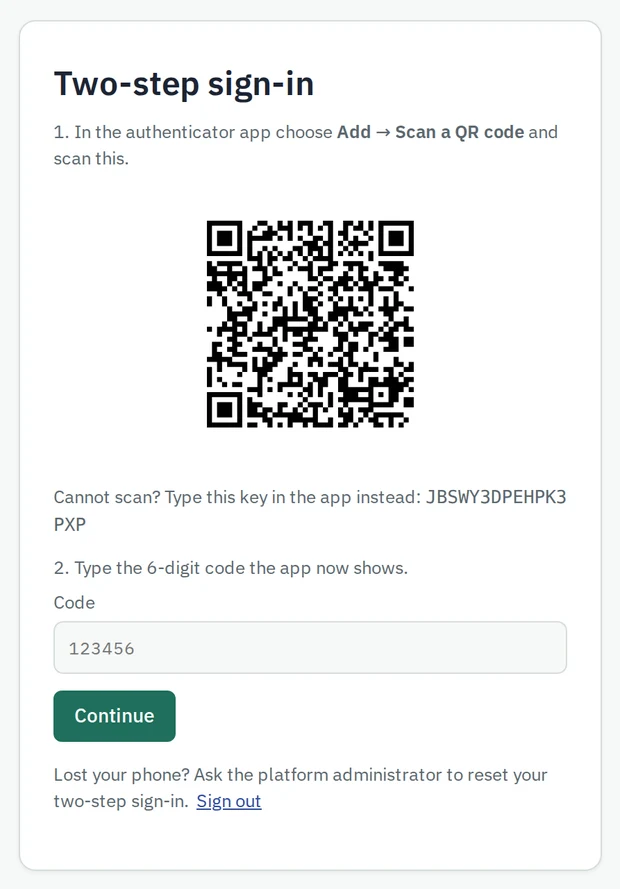
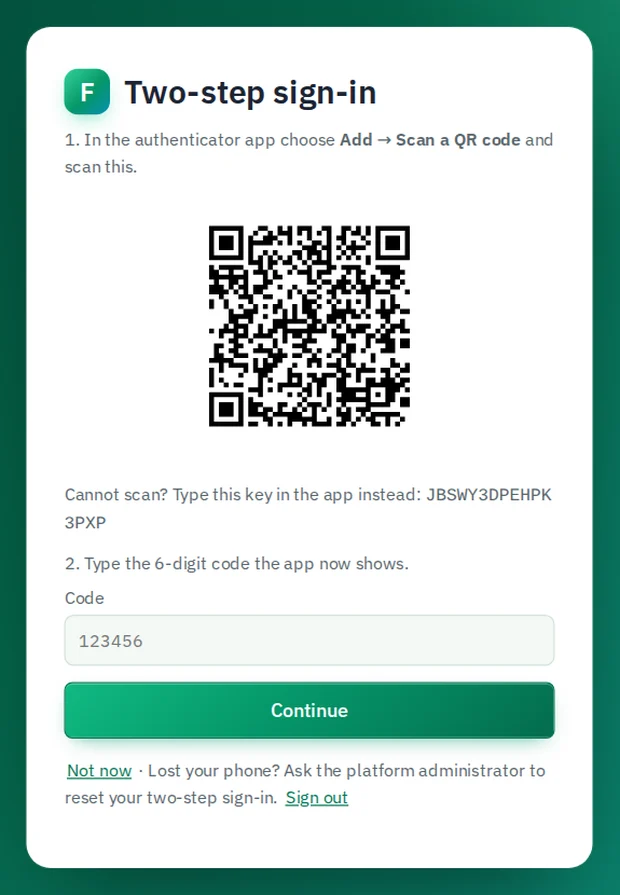
App: vibrant FinCom look to match the website
- Emerald sidebar with glow, coloured icons and a gradient active item; F mark
- Gradient primary buttons, tab underlines, filter pills and tags
- Number tiles each carry their own colour (emerald, sky, violet, amber)
- Bright brand backdrop on the sign-in screens; light and dark both done
- Website screenshots retaken from the new look

Claude-Session: https://claude.ai/code/session_01FRsxjsRL3Wrm74kAfAgxyr

diff --git a/index.html b/index.html
@@ -930,6 +930,84 @@ p,.note,.banner{text-wrap:pretty}
 @media (prefers-reduced-motion:reduce){.bk-empty{transition:none}}
 /* on the screens with review / post tabs the client name is already in the side menu, so the title row stays clean */
 .headrow .tbar-title .note{display:none}
+/* ================= Vibrant layer (FinCom brand): emerald leads, with sky, violet, amber, rose and teal ================= */
+:root{--v-em1:#34d399;--v-em2:#059669;--v-sky1:#38bdf8;--v-sky2:#2563eb;--v-vi1:#a78bfa;--v-vi2:#7c3aed;--v-am1:#fbbf24;--v-am2:#ea580c;--v-ro1:#fb7185;--v-ro2:#db2777;--v-te1:#2dd4bf;--v-te2:#0891b2;
+  --ledger:#047857;--ledger-soft:#dcfce9;--paper:#F3F8F5;--rule:#D3E3DA;--rule-soft:#E6F0EA;--stamp:#4338CA;--stamp-soft:#EAE8FD;--focus:#0891b2}
+:root[data-theme="dark"]{--ledger:#34d399;--ledger-soft:#0c3326;--paper:#0b1411;--sheet:#111d18;--rule:#22362d;--rule-soft:#1a2b23;--stamp:#a5b4fc;--stamp-soft:#1f2350;--focus:#38bdf8}
+@media (prefers-color-scheme: dark){:root:not([data-theme="light"]){--ledger:#34d399;--ledger-soft:#0c3326;--paper:#0b1411;--sheet:#111d18;--rule:#22362d;--rule-soft:#1a2b23;--stamp:#a5b4fc;--stamp-soft:#1f2350;--focus:#38bdf8}}
+body{background:radial-gradient(900px 420px at 100% -80px,color-mix(in srgb,var(--v-em1) 12%,transparent),transparent 70%),radial-gradient(700px 380px at 20% 110%,color-mix(in srgb,var(--v-sky1) 8%,transparent),transparent 70%),var(--paper);background-attachment:fixed}
+/* sidebar: deep emerald with living light */
+.side{background:radial-gradient(260px 220px at 100% 0%,rgb(52 211 153 / .28),transparent 70%),radial-gradient(260px 260px at 0% 100%,rgb(56 189 248 / .22),transparent 70%),linear-gradient(180deg,#053a2d 0%,#06372e 45%,#0a2f3d 100%);color:#EAF7F1}
+.side-brand{flex-direction:row;flex-wrap:wrap;align-items:center;gap:10px;font-family:"IBM Plex Serif",Georgia,serif}
+.side-brand::before{content:"F";display:grid;place-items:center;width:30px;height:30px;border-radius:9px;font:700 17px/1 "IBM Plex Sans",sans-serif;color:#fff;background:linear-gradient(135deg,#34d399,#059669 55%,#0891b2);box-shadow:0 6px 16px -6px rgb(52 211 153 / .8),inset 0 1px 0 rgb(255 255 255 / .35)}
+.side-brand span{flex-basis:100%;color:#fde68a;font-weight:600}
+.side-label{color:#8fd9bd}
+.side-co{background:rgb(255 255 255 / .07);border-color:rgb(110 231 183 / .28)}
+.side-co:hover{border-color:#6ee7b7;background:rgb(255 255 255 / .1)}
+.side-co small{color:#a7d8c4}
+.side-sep{background:rgb(110 231 183 / .2)}
+.side-link{transition:background-color .15s,box-shadow .2s}
+.side-link:hover{background:rgb(255 255 255 / .08)}
+.side-link svg{color:var(--si,#6ee7b7)}
+.side-link[data-goclient="dash"]{--si:#6ee7b7}.side-link[data-goclient="bills"]{--si:#fcd34d}.side-link[data-goclient="bank"]{--si:#7dd3fc}
+.side-link[data-goclient="sales"]{--si:#f9a8d4}.side-link[data-goclient="inbox"]{--si:#c4b5fd}.side-link[data-goclient="txn"]{--si:#5eead4}
+.side-link[data-goclient="books"]{--si:#bef264}.side-link[data-act="setup"]{--si:#fdba74}.side-link[data-nav="clients"]{--si:#93c5fd}.side-link[data-nav="help"]{--si:#fda4af}
+.side-link[aria-current="page"]{background:linear-gradient(135deg,#10b981,#059669 55%,#0e7490);color:#fff;box-shadow:0 8px 20px -10px rgb(52 211 153 / .9),inset 0 1px 0 rgb(255 255 255 / .25)}
+.side-link[aria-current="page"] svg{color:#fff}
+.side-count{background:linear-gradient(135deg,#fde68a,#fbbf24);color:#5a3a00}
+.side-ver{color:#7fb8a3}
+/* page header: a thin brand gradient line */
+header.top{background:linear-gradient(90deg,#10b981,#38bdf8,#a78bfa,#fbbf24) bottom/100% 3px no-repeat,var(--sheet)}
+/* buttons */
+.btn.primary{background:linear-gradient(135deg,#10b981 0%,#059669 45%,#046c4e 100%);border-color:#047857;color:#fff;box-shadow:0 6px 16px -8px rgb(5 150 105 / .8),inset 0 1px 0 rgb(255 255 255 / .25);transition:box-shadow .2s,filter .2s,transform .1s}
+.btn.primary:hover{filter:brightness(1.07);box-shadow:0 10px 22px -8px rgb(16 185 129 / .9),inset 0 1px 0 rgb(255 255 255 / .3)}
+:root[data-theme="dark"] .btn.primary{color:#fff}
+@media (prefers-color-scheme: dark){:root:not([data-theme="light"]) .btn.primary{color:#fff}}
+.btn.danger{border-color:color-mix(in srgb,var(--stop) 35%,var(--rule))}
+.btn:not(.primary):not([disabled]):hover{border-color:var(--v-em1);box-shadow:0 4px 12px -6px rgb(16 185 129 / .5)}
+/* tabs and filters */
+nav.tabs button[aria-selected="true"],.sbar button[aria-selected="true"]{border-bottom-color:transparent;background:linear-gradient(90deg,#10b981,#0891b2) bottom/100% 3px no-repeat}
+.sbar button[aria-selected="true"]{background-size:calc(100% - 16px) 3px;background-position:left bottom}
+.sbar button[aria-selected="true"] .sbar-n{background:linear-gradient(135deg,#34d399,#059669);color:#fff}
+nav.tabs .count,.sbar-n{background:linear-gradient(135deg,#fef3c7,#fde68a);color:#854d0e}
+.filters button[aria-pressed="true"]{background:linear-gradient(135deg,#10b981,#0e7490);border-color:transparent;color:#fff;box-shadow:0 4px 12px -6px rgb(14 116 144 / .8)}
+/* tags */
+.tag.ok{background:linear-gradient(135deg,#d1fae5,#a7f3d0);color:#065f46}
+.tag.warn{background:linear-gradient(135deg,#fef3c7,#fed7aa);color:#9a3412}
+.tag.stamp{background:linear-gradient(135deg,#e0e7ff,#ede9fe);color:#4338ca}
+.tag.bad{background:linear-gradient(135deg,#ffe4e6,#fecdd3);color:#be123c}
+:root[data-theme="dark"] .tag.ok{background:#064e3b;color:#a7f3d0}:root[data-theme="dark"] .tag.warn{background:#7c2d12;color:#fed7aa}:root[data-theme="dark"] .tag.stamp{background:#312e81;color:#c7d2fe}:root[data-theme="dark"] .tag.bad{background:#881337;color:#fecdd3}
+@media (prefers-color-scheme: dark){:root:not([data-theme="light"]) .tag.ok{background:#064e3b;color:#a7f3d0}:root:not([data-theme="light"]) .tag.warn{background:#7c2d12;color:#fed7aa}:root:not([data-theme="light"]) .tag.stamp{background:#312e81;color:#c7d2fe}:root:not([data-theme="light"]) .tag.bad{background:#881337;color:#fecdd3}}
+/* number tiles: each carries its own colour */
+.dtile,.metric,.tile{position:relative;overflow:hidden;--c1:var(--v-em1);--c2:var(--v-em2);background:linear-gradient(160deg,color-mix(in srgb,var(--c1) 13%,var(--sheet)),var(--sheet) 62%);border-color:color-mix(in srgb,var(--c1) 30%,var(--rule));transition:transform .2s,box-shadow .2s,border-color .2s}
+.dtile::before,.metric::before,.tile::before{content:"";position:absolute;left:0;top:0;right:0;height:3px;background:linear-gradient(90deg,var(--c1),var(--c2))}
+.dash-tiles>:nth-child(4n+2),.metrics>:nth-child(4n+2),.tiles>:nth-child(4n+2){--c1:var(--v-sky1);--c2:var(--v-sky2)}
+.dash-tiles>:nth-child(4n+3),.metrics>:nth-child(4n+3),.tiles>:nth-child(4n+3){--c1:var(--v-vi1);--c2:var(--v-vi2)}
+.dash-tiles>:nth-child(4n+4),.metrics>:nth-child(4n+4),.tiles>:nth-child(4n+4){--c1:var(--v-am1);--c2:var(--v-am2)}
+.dash-tiles>:nth-child(n+5):nth-child(4n+1){--c1:var(--v-te1);--c2:var(--v-te2)}
+.dash-tiles>:nth-child(n+5):nth-child(4n+2){--c1:var(--v-ro1);--c2:var(--v-ro2)}
+.dtile.warn,.metric.warn{--c1:var(--v-am1);--c2:var(--v-am2);background:linear-gradient(160deg,color-mix(in srgb,#fbbf24 26%,var(--sheet)),color-mix(in srgb,#fbbf24 6%,var(--sheet)))}
+.dtile b,.metric b{color:color-mix(in srgb,var(--c2) 70%,var(--ink))}
+.dtile[data-nav]:hover,button.dtile:hover,.metric[data-nav]:hover,.tile:hover{transform:translateY(-2px);border-color:var(--c1);box-shadow:0 12px 26px -14px var(--c2)}
+/* cards */
+.dash-card{position:relative;overflow:hidden;border-color:color-mix(in srgb,var(--v-em1) 22%,var(--rule))}
+.dash-card::before{content:"";position:absolute;left:0;top:0;bottom:0;width:3px;background:linear-gradient(180deg,#34d399,#38bdf8)}
+.dash-cols>.dash-card:nth-child(4n+2)::before{background:linear-gradient(180deg,#38bdf8,#7c3aed)}
+.dash-cols>.dash-card:nth-child(4n+3)::before{background:linear-gradient(180deg,#f472b6,#a78bfa)}
+.dash-cols>.dash-card:nth-child(4n+4)::before{background:linear-gradient(180deg,#fbbf24,#ea580c)}
+.verdict.yes{background:linear-gradient(90deg,#059669,#0891b2);-webkit-background-clip:text;background-clip:text;color:transparent}
+:root[data-theme="dark"] .verdict.yes{background-image:linear-gradient(90deg,#34d399,#38bdf8)}
+@media (prefers-color-scheme: dark){:root:not([data-theme="light"]) .verdict.yes{background-image:linear-gradient(90deg,#34d399,#38bdf8)}}
+.actionbar{box-shadow:0 -1px 0 transparent;border-top:0;background-image:linear-gradient(90deg,#10b981,#38bdf8,#a78bfa) ;background-size:100% 3px;background-repeat:no-repeat;background-position:top}
+/* sign-in: bright brand backdrop */
+.signin{min-height:100vh;background:radial-gradient(700px 480px at 85% 5%,rgb(52 211 153 / .55),transparent 62%),radial-gradient(620px 440px at 5% 100%,rgb(56 189 248 / .45),transparent 66%),radial-gradient(420px 320px at 100% 100%,rgb(167 139 250 / .4),transparent 70%),linear-gradient(125deg,#03342a 0%,#05664b 45%,#0a7f6a 72%,#0e6f86 100%)}
+.signin-box{border:0;border-radius:18px;box-shadow:0 30px 70px -24px rgb(0 0 0 / .55),0 0 0 1px rgb(255 255 255 / .08);padding:30px 28px}
+.signin-box h1{display:flex;align-items:center;gap:10px}
+.signin-box h1::before{content:"F";display:grid;place-items:center;width:34px;height:34px;border-radius:10px;font:700 19px/1 "IBM Plex Sans",sans-serif;color:#fff;background:linear-gradient(135deg,#34d399,#059669 55%,#0891b2);box-shadow:0 6px 16px -6px rgb(52 211 153 / .8)}
+.signin-box input:focus{outline:0;border-color:#10b981;box-shadow:0 0 0 3px rgb(16 185 129 / .22)}
+.signin-box .btn.primary{width:100%;justify-content:center;height:42px}
+.signin-box a,.signin-box .linkbtn{color:var(--ledger)}
+@media (prefers-reduced-motion: reduce){.dtile,.metric,.tile,.btn.primary{transition:none}.dtile:hover,.tile:hover{transform:none}}
 </style>
 <style>.is-test .side-brand::after{content:"TEST";display:block;margin-top:4px;font-size:11px;letter-spacing:.14em;color:#E9A06A}.is-test header.top{box-shadow:inset 0 3px 0 #E2761B}body.is-test::after{content:"TESTING SITE · not for real client work · post only to a ZZ TEST company in Tally";position:fixed;left:0;right:0;bottom:0;z-index:70;background:#E2761B;color:#fff;font-size:12.5px;text-align:center;padding:3px 8px;letter-spacing:.04em;pointer-events:none}.is-test .actionbar{bottom:22px}.is-test #app{padding-bottom:34px}</style><meta http-equiv="Content-Security-Policy" content="default-src 'self'; script-src 'self' 'sha256-JUZRiA/pD/Q1MSIv1WkOX00eklOKXLcOHszD3zr3UBc=' 'sha256-eBfM5RlNanoMUXe5WqBMdgcvkVHZSzptJPrDrLkhzwI=' 'wasm-unsafe-eval'; style-src 'self' 'unsafe-inline' https://fonts.googleapis.com; font-src 'self' data: https://fonts.gstatic.com; img-src 'self' data: blob:; media-src 'self' data: blob:; connect-src 'self' data: blob: https://*.supabase.co wss://*.supabase.co http://127.0.0.1:* http://localhost:*; worker-src 'self' blob:; frame-src 'self' blob:; object-src 'none'; base-uri 'self'; form-action 'self'">
 </head>

diff --git a/src/css/app.css b/src/css/app.css
@@ -917,3 +917,81 @@ p,.note,.banner{text-wrap:pretty}
 @media (prefers-reduced-motion:reduce){.bk-empty{transition:none}}
 /* on the screens with review / post tabs the client name is already in the side menu, so the title row stays clean */
 .headrow .tbar-title .note{display:none}
+/* ================= Vibrant layer (FinCom brand): emerald leads, with sky, violet, amber, rose and teal ================= */
+:root{--v-em1:#34d399;--v-em2:#059669;--v-sky1:#38bdf8;--v-sky2:#2563eb;--v-vi1:#a78bfa;--v-vi2:#7c3aed;--v-am1:#fbbf24;--v-am2:#ea580c;--v-ro1:#fb7185;--v-ro2:#db2777;--v-te1:#2dd4bf;--v-te2:#0891b2;
+  --ledger:#047857;--ledger-soft:#dcfce9;--paper:#F3F8F5;--rule:#D3E3DA;--rule-soft:#E6F0EA;--stamp:#4338CA;--stamp-soft:#EAE8FD;--focus:#0891b2}
+:root[data-theme="dark"]{--ledger:#34d399;--ledger-soft:#0c3326;--paper:#0b1411;--sheet:#111d18;--rule:#22362d;--rule-soft:#1a2b23;--stamp:#a5b4fc;--stamp-soft:#1f2350;--focus:#38bdf8}
+@media (prefers-color-scheme: dark){:root:not([data-theme="light"]){--ledger:#34d399;--ledger-soft:#0c3326;--paper:#0b1411;--sheet:#111d18;--rule:#22362d;--rule-soft:#1a2b23;--stamp:#a5b4fc;--stamp-soft:#1f2350;--focus:#38bdf8}}
+body{background:radial-gradient(900px 420px at 100% -80px,color-mix(in srgb,var(--v-em1) 12%,transparent),transparent 70%),radial-gradient(700px 380px at 20% 110%,color-mix(in srgb,var(--v-sky1) 8%,transparent),transparent 70%),var(--paper);background-attachment:fixed}
+/* sidebar: deep emerald with living light */
+.side{background:radial-gradient(260px 220px at 100% 0%,rgb(52 211 153 / .28),transparent 70%),radial-gradient(260px 260px at 0% 100%,rgb(56 189 248 / .22),transparent 70%),linear-gradient(180deg,#053a2d 0%,#06372e 45%,#0a2f3d 100%);color:#EAF7F1}
+.side-brand{flex-direction:row;flex-wrap:wrap;align-items:center;gap:10px;font-family:"IBM Plex Serif",Georgia,serif}
+.side-brand::before{content:"F";display:grid;place-items:center;width:30px;height:30px;border-radius:9px;font:700 17px/1 "IBM Plex Sans",sans-serif;color:#fff;background:linear-gradient(135deg,#34d399,#059669 55%,#0891b2);box-shadow:0 6px 16px -6px rgb(52 211 153 / .8),inset 0 1px 0 rgb(255 255 255 / .35)}
+.side-brand span{flex-basis:100%;color:#fde68a;font-weight:600}
+.side-label{color:#8fd9bd}
+.side-co{background:rgb(255 255 255 / .07);border-color:rgb(110 231 183 / .28)}
+.side-co:hover{border-color:#6ee7b7;background:rgb(255 255 255 / .1)}
+.side-co small{color:#a7d8c4}
+.side-sep{background:rgb(110 231 183 / .2)}
+.side-link{transition:background-color .15s,box-shadow .2s}
+.side-link:hover{background:rgb(255 255 255 / .08)}
+.side-link svg{color:var(--si,#6ee7b7)}
+.side-link[data-goclient="dash"]{--si:#6ee7b7}.side-link[data-goclient="bills"]{--si:#fcd34d}.side-link[data-goclient="bank"]{--si:#7dd3fc}
+.side-link[data-goclient="sales"]{--si:#f9a8d4}.side-link[data-goclient="inbox"]{--si:#c4b5fd}.side-link[data-goclient="txn"]{--si:#5eead4}
+.side-link[data-goclient="books"]{--si:#bef264}.side-link[data-act="setup"]{--si:#fdba74}.side-link[data-nav="clients"]{--si:#93c5fd}.side-link[data-nav="help"]{--si:#fda4af}
+.side-link[aria-current="page"]{background:linear-gradient(135deg,#10b981,#059669 55%,#0e7490);color:#fff;box-shadow:0 8px 20px -10px rgb(52 211 153 / .9),inset 0 1px 0 rgb(255 255 255 / .25)}
+.side-link[aria-current="page"] svg{color:#fff}
+.side-count{background:linear-gradient(135deg,#fde68a,#fbbf24);color:#5a3a00}
+.side-ver{color:#7fb8a3}
+/* page header: a thin brand gradient line */
+header.top{background:linear-gradient(90deg,#10b981,#38bdf8,#a78bfa,#fbbf24) bottom/100% 3px no-repeat,var(--sheet)}
+/* buttons */
+.btn.primary{background:linear-gradient(135deg,#10b981 0%,#059669 45%,#046c4e 100%);border-color:#047857;color:#fff;box-shadow:0 6px 16px -8px rgb(5 150 105 / .8),inset 0 1px 0 rgb(255 255 255 / .25);transition:box-shadow .2s,filter .2s,transform .1s}
+.btn.primary:hover{filter:brightness(1.07);box-shadow:0 10px 22px -8px rgb(16 185 129 / .9),inset 0 1px 0 rgb(255 255 255 / .3)}
+:root[data-theme="dark"] .btn.primary{color:#fff}
+@media (prefers-color-scheme: dark){:root:not([data-theme="light"]) .btn.primary{color:#fff}}
+.btn.danger{border-color:color-mix(in srgb,var(--stop) 35%,var(--rule))}
+.btn:not(.primary):not([disabled]):hover{border-color:var(--v-em1);box-shadow:0 4px 12px -6px rgb(16 185 129 / .5)}
+/* tabs and filters */
+nav.tabs button[aria-selected="true"],.sbar button[aria-selected="true"]{border-bottom-color:transparent;background:linear-gradient(90deg,#10b981,#0891b2) bottom/100% 3px no-repeat}
+.sbar button[aria-selected="true"]{background-size:calc(100% - 16px) 3px;background-position:left bottom}
+.sbar button[aria-selected="true"] .sbar-n{background:linear-gradient(135deg,#34d399,#059669);color:#fff}
+nav.tabs .count,.sbar-n{background:linear-gradient(135deg,#fef3c7,#fde68a);color:#854d0e}
+.filters button[aria-pressed="true"]{background:linear-gradient(135deg,#10b981,#0e7490);border-color:transparent;color:#fff;box-shadow:0 4px 12px -6px rgb(14 116 144 / .8)}
+/* tags */
+.tag.ok{background:linear-gradient(135deg,#d1fae5,#a7f3d0);color:#065f46}
+.tag.warn{background:linear-gradient(135deg,#fef3c7,#fed7aa);color:#9a3412}
+.tag.stamp{background:linear-gradient(135deg,#e0e7ff,#ede9fe);color:#4338ca}
+.tag.bad{background:linear-gradient(135deg,#ffe4e6,#fecdd3);color:#be123c}
+:root[data-theme="dark"] .tag.ok{background:#064e3b;color:#a7f3d0}:root[data-theme="dark"] .tag.warn{background:#7c2d12;color:#fed7aa}:root[data-theme="dark"] .tag.stamp{background:#312e81;color:#c7d2fe}:root[data-theme="dark"] .tag.bad{background:#881337;color:#fecdd3}
+@media (prefers-color-scheme: dark){:root:not([data-theme="light"]) .tag.ok{background:#064e3b;color:#a7f3d0}:root:not([data-theme="light"]) .tag.warn{background:#7c2d12;color:#fed7aa}:root:not([data-theme="light"]) .tag.stamp{background:#312e81;color:#c7d2fe}:root:not([data-theme="light"]) .tag.bad{background:#881337;color:#fecdd3}}
+/* number tiles: each carries its own colour */
+.dtile,.metric,.tile{position:relative;overflow:hidden;--c1:var(--v-em1);--c2:var(--v-em2);background:linear-gradient(160deg,color-mix(in srgb,var(--c1) 13%,var(--sheet)),var(--sheet) 62%);border-color:color-mix(in srgb,var(--c1) 30%,var(--rule));transition:transform .2s,box-shadow .2s,border-color .2s}
+.dtile::before,.metric::before,.tile::before{content:"";position:absolute;left:0;top:0;right:0;height:3px;background:linear-gradient(90deg,var(--c1),var(--c2))}
+.dash-tiles>:nth-child(4n+2),.metrics>:nth-child(4n+2),.tiles>:nth-child(4n+2){--c1:var(--v-sky1);--c2:var(--v-sky2)}
+.dash-tiles>:nth-child(4n+3),.metrics>:nth-child(4n+3),.tiles>:nth-child(4n+3){--c1:var(--v-vi1);--c2:var(--v-vi2)}
+.dash-tiles>:nth-child(4n+4),.metrics>:nth-child(4n+4),.tiles>:nth-child(4n+4){--c1:var(--v-am1);--c2:var(--v-am2)}
+.dash-tiles>:nth-child(n+5):nth-child(4n+1){--c1:var(--v-te1);--c2:var(--v-te2)}
+.dash-tiles>:nth-child(n+5):nth-child(4n+2){--c1:var(--v-ro1);--c2:var(--v-ro2)}
+.dtile.warn,.metric.warn{--c1:var(--v-am1);--c2:var(--v-am2);background:linear-gradient(160deg,color-mix(in srgb,#fbbf24 26%,var(--sheet)),color-mix(in srgb,#fbbf24 6%,var(--sheet)))}
+.dtile b,.metric b{color:color-mix(in srgb,var(--c2) 70%,var(--ink))}
+.dtile[data-nav]:hover,button.dtile:hover,.metric[data-nav]:hover,.tile:hover{transform:translateY(-2px);border-color:var(--c1);box-shadow:0 12px 26px -14px var(--c2)}
+/* cards */
+.dash-card{position:relative;overflow:hidden;border-color:color-mix(in srgb,var(--v-em1) 22%,var(--rule))}
+.dash-card::before{content:"";position:absolute;left:0;top:0;bottom:0;width:3px;background:linear-gradient(180deg,#34d399,#38bdf8)}
+.dash-cols>.dash-card:nth-child(4n+2)::before{background:linear-gradient(180deg,#38bdf8,#7c3aed)}
+.dash-cols>.dash-card:nth-child(4n+3)::before{background:linear-gradient(180deg,#f472b6,#a78bfa)}
+.dash-cols>.dash-card:nth-child(4n+4)::before{background:linear-gradient(180deg,#fbbf24,#ea580c)}
+.verdict.yes{background:linear-gradient(90deg,#059669,#0891b2);-webkit-background-clip:text;background-clip:text;color:transparent}
+:root[data-theme="dark"] .verdict.yes{background-image:linear-gradient(90deg,#34d399,#38bdf8)}
+@media (prefers-color-scheme: dark){:root:not([data-theme="light"]) .verdict.yes{background-image:linear-gradient(90deg,#34d399,#38bdf8)}}
+.actionbar{box-shadow:0 -1px 0 transparent;border-top:0;background-image:linear-gradient(90deg,#10b981,#38bdf8,#a78bfa) ;background-size:100% 3px;background-repeat:no-repeat;background-position:top}
+/* sign-in: bright brand backdrop */
+.signin{min-height:100vh;background:radial-gradient(700px 480px at 85% 5%,rgb(52 211 153 / .55),transparent 62%),radial-gradient(620px 440px at 5% 100%,rgb(56 189 248 / .45),transparent 66%),radial-gradient(420px 320px at 100% 100%,rgb(167 139 250 / .4),transparent 70%),linear-gradient(125deg,#03342a 0%,#05664b 45%,#0a7f6a 72%,#0e6f86 100%)}
+.signin-box{border:0;border-radius:18px;box-shadow:0 30px 70px -24px rgb(0 0 0 / .55),0 0 0 1px rgb(255 255 255 / .08);padding:30px 28px}
+.signin-box h1{display:flex;align-items:center;gap:10px}
+.signin-box h1::before{content:"F";display:grid;place-items:center;width:34px;height:34px;border-radius:10px;font:700 19px/1 "IBM Plex Sans",sans-serif;color:#fff;background:linear-gradient(135deg,#34d399,#059669 55%,#0891b2);box-shadow:0 6px 16px -6px rgb(52 211 153 / .8)}
+.signin-box input:focus{outline:0;border-color:#10b981;box-shadow:0 0 0 3px rgb(16 185 129 / .22)}
+.signin-box .btn.primary{width:100%;justify-content:center;height:42px}
+.signin-box a,.signin-box .linkbtn{color:var(--ledger)}
+@media (prefers-reduced-motion: reduce){.dtile,.metric,.tile,.btn.primary{transition:none}.dtile:hover,.tile:hover{transform:none}}

diff --git a/welcome/index.html b/welcome/index.html
@@ -487,7 +487,7 @@ table.units{width:100%;border-collapse:collapse;font-size:15.5px}
       <h2 id="i-h" class="rise">See how the business is doing, and what needs fixing, before the auditor does.</h2>
       <div class="ins-grid">
         <article class="ins rise">
-          <div class="ins-shot"><img src="img/mis.webp" width="1500" height="476" alt="The MIS summary in FinCom: sales, profit before tax, cash received and paid, money owed to and by the business, MSME dues and GST payable" loading="lazy"></div>
+          <div class="ins-shot"><img src="img/mis.webp" width="1500" height="303" alt="The MIS summary in FinCom: sales, profit before tax, cash received and paid, money owed to and by the business, MSME dues and GST payable" loading="lazy"></div>
           <div class="ins-body">
             <h3><svg class="ic" aria-hidden="true" focusable="false" xmlns="http://www.w3.org/2000/svg" viewBox="0 0 256 256" fill="currentColor"><path d="M232,208a8,8,0,0,1-8,8H32a8,8,0,0,1-8-8V48a8,8,0,0,1,16,0V156.69l50.34-50.35a8,8,0,0,1,11.32,0L128,132.69,180.69,80H160a8,8,0,0,1,0-16h40a8,8,0,0,1,8,8v40a8,8,0,0,1-16,0V91.31l-58.34,58.35a8,8,0,0,1-11.32,0L96,123.31l-56,56V200H224A8,8,0,0,1,232,208Z"/></svg>Your month on one page</h3>
             <p>Read straight from Tally. Sales, profit, cash in and out, who owes you, who you owe, and what tax is due next.</p>
@@ -500,7 +500,7 @@ table.units{width:100%;border-collapse:collapse;font-size:15.5px}
           </div>
         </article>
         <article class="ins rise">
-          <div class="ins-shot"><img src="img/audit.webp" width="1500" height="672" alt="An audit finding in FinCom: a cash payment above 10,000 rupees under section 40A(3), with its effect, what to do and the voucher behind it" loading="lazy"></div>
+          <div class="ins-shot"><img src="img/audit.webp" width="1500" height="689" alt="An audit finding in FinCom: a cash payment above 10,000 rupees under section 40A(3), with its effect, what to do and the voucher behind it" loading="lazy"></div>
           <div class="ins-body">
             <h3><svg class="ic" aria-hidden="true" focusable="false" xmlns="http://www.w3.org/2000/svg" viewBox="0 0 256 256" fill="currentColor"><path d="M229.66,218.34l-50.07-50.06a88.11,88.11,0,1,0-11.31,11.31l50.06,50.07a8,8,0,0,0,11.32-11.32ZM40,112a72,72,0,1,1,72,72A72.08,72.08,0,0,1,40,112Z"/></svg>An audit review of every voucher</h3>
             <p>Checks the whole year's books the way an auditor would, and tells you what each finding costs and how to put it right.</p>
@@ -553,11 +553,11 @@ table.units{width:100%;border-collapse:collapse;font-size:15.5px}
     <div class="wrap">
       <div class="row rise">
         <div class="copy"><h3>A month of bills, reviewed in one table.</h3><p>Every bill shows its TDS section, the tax, and how far the vendor has gone against this year's limit. Tick the ones you agree with and approve them together.</p></div>
-        <div class="frame"><img src="img/bill-table.webp" width="1400" height="609" alt="A table of uploaded bills with payment type, TDS and each vendor's running total against the yearly limit" loading="lazy"></div>
+        <div class="frame"><img src="img/bill-table.webp" width="1400" height="622" alt="A table of uploaded bills with payment type, TDS and each vendor's running total against the yearly limit" loading="lazy"></div>
       </div>
       <div class="row flip rise">
         <div class="copy"><h3>Bank statements that add up before they reach Tally.</h3><p>Each statement is checked line by line against its running balance. Lines are matched to your ledgers by rules you set once, then posted in batches.</p></div>
-        <div class="frame"><img src="img/bank.webp" width="1500" height="709" alt="A bank statement in FinCom with opening and closing balances, and each line waiting for a Tally ledger" loading="lazy"></div>
+        <div class="frame"><img src="img/bank.webp" width="1500" height="1027" alt="A bank statement in FinCom with opening and closing balances, and each line waiting for a Tally ledger" loading="lazy"></div>
       </div>
     </div>
   </section>
@@ -586,7 +586,7 @@ table.units{width:100%;border-collapse:collapse;font-size:15.5px}
       <p class="eyebrow rise">Security</p>
       <h2 id="s-h" class="rise">Your clients' books stay yours.</h2>
       <div class="sec-grid">
-        <div class="frame narrow rise"><img src="img/two-step.webp" width="620" height="890" alt="The optional two-step sign-in set-up in FinCom, with a QR code to scan in an authenticator app" loading="lazy"></div>
+        <div class="frame narrow rise"><img src="img/two-step.webp" width="620" height="895" alt="The optional two-step sign-in set-up in FinCom, with a QR code to scan in an authenticator app" loading="lazy"></div>
         <div class="groups">
           <div class="group rise"><h3>Access</h3>
             <div class="pt"><svg class="ic" aria-hidden="true" focusable="false" xmlns="http://www.w3.org/2000/svg" viewBox="0 0 256 256" fill="currentColor"><path d="M208,40H48A16,16,0,0,0,32,56v56c0,52.72,25.52,84.67,46.93,102.19,23.06,18.86,46,25.26,47,25.53a8,8,0,0,0,4.2,0c1-.27,23.91-6.67,47-25.53C198.48,196.67,224,164.72,224,112V56A16,16,0,0,0,208,40Zm0,72c0,37.07-13.66,67.16-40.6,89.42A129.3,129.3,0,0,1,128,223.62a128.25,128.25,0,0,1-38.92-21.81C61.82,179.51,48,149.3,48,112l0-56,160,0ZM82.34,141.66a8,8,0,0,1,11.32-11.32L112,148.69l50.34-50.35a8,8,0,0,1,11.32,11.32l-56,56a8,8,0,0,1-11.32,0Z"/></svg><p>Each firm's data is walled off by the database itself. One firm can never read another's.</p></div>

diff --git a/build/landing/home.html b/build/landing/home.html
@@ -24,7 +24,7 @@
       <h2 id="i-h" class="rise">See how the business is doing, and what needs fixing, before the auditor does.</h2>
       <div class="ins-grid">
         <article class="ins rise">
-          <div class="ins-shot"><img src="img/mis.webp" width="1500" height="476" alt="The MIS summary in FinCom: sales, profit before tax, cash received and paid, money owed to and by the business, MSME dues and GST payable" loading="lazy"></div>
+          <div class="ins-shot"><img src="img/mis.webp" width="1500" height="303" alt="The MIS summary in FinCom: sales, profit before tax, cash received and paid, money owed to and by the business, MSME dues and GST payable" loading="lazy"></div>
           <div class="ins-body">
             <h3><svg class="ic" aria-hidden="true" focusable="false" xmlns="http://www.w3.org/2000/svg" viewBox="0 0 256 256" fill="currentColor"><path d="M232,208a8,8,0,0,1-8,8H32a8,8,0,0,1-8-8V48a8,8,0,0,1,16,0V156.69l50.34-50.35a8,8,0,0,1,11.32,0L128,132.69,180.69,80H160a8,8,0,0,1,0-16h40a8,8,0,0,1,8,8v40a8,8,0,0,1-16,0V91.31l-58.34,58.35a8,8,0,0,1-11.32,0L96,123.31l-56,56V200H224A8,8,0,0,1,232,208Z"/></svg>Your month on one page</h3>
             <p>Read straight from Tally. Sales, profit, cash in and out, who owes you, who you owe, and what tax is due next.</p>
@@ -37,7 +37,7 @@
           </div>
         </article>
         <article class="ins rise">
-          <div class="ins-shot"><img src="img/audit.webp" width="1500" height="672" alt="An audit finding in FinCom: a cash payment above 10,000 rupees under section 40A(3), with its effect, what to do and the voucher behind it" loading="lazy"></div>
+          <div class="ins-shot"><img src="img/audit.webp" width="1500" height="689" alt="An audit finding in FinCom: a cash payment above 10,000 rupees under section 40A(3), with its effect, what to do and the voucher behind it" loading="lazy"></div>
           <div class="ins-body">
             <h3><svg class="ic" aria-hidden="true" focusable="false" xmlns="http://www.w3.org/2000/svg" viewBox="0 0 256 256" fill="currentColor"><path d="M229.66,218.34l-50.07-50.06a88.11,88.11,0,1,0-11.31,11.31l50.06,50.07a8,8,0,0,0,11.32-11.32ZM40,112a72,72,0,1,1,72,72A72.08,72.08,0,0,1,40,112Z"/></svg>An audit review of every voucher</h3>
             <p>Checks the whole year's books the way an auditor would, and tells you what each finding costs and how to put it right.</p>
@@ -90,11 +90,11 @@
     <div class="wrap">
       <div class="row rise">
         <div class="copy"><h3>A month of bills, reviewed in one table.</h3><p>Every bill shows its TDS section, the tax, and how far the vendor has gone against this year's limit. Tick the ones you agree with and approve them together.</p></div>
-        <div class="frame"><img src="img/bill-table.webp" width="1400" height="609" alt="A table of uploaded bills with payment type, TDS and each vendor's running total against the yearly limit" loading="lazy"></div>
+        <div class="frame"><img src="img/bill-table.webp" width="1400" height="622" alt="A table of uploaded bills with payment type, TDS and each vendor's running total against the yearly limit" loading="lazy"></div>
       </div>
       <div class="row flip rise">
         <div class="copy"><h3>Bank statements that add up before they reach Tally.</h3><p>Each statement is checked line by line against its running balance. Lines are matched to your ledgers by rules you set once, then posted in batches.</p></div>
-        <div class="frame"><img src="img/bank.webp" width="1500" height="709" alt="A bank statement in FinCom with opening and closing balances, and each line waiting for a Tally ledger" loading="lazy"></div>
+        <div class="frame"><img src="img/bank.webp" width="1500" height="1027" alt="A bank statement in FinCom with opening and closing balances, and each line waiting for a Tally ledger" loading="lazy"></div>
       </div>
     </div>
   </section>
@@ -123,7 +123,7 @@
       <p class="eyebrow rise">Security</p>
       <h2 id="s-h" class="rise">Your clients' books stay yours.</h2>
       <div class="sec-grid">
-        <div class="frame narrow rise"><img src="img/two-step.webp" width="620" height="890" alt="The optional two-step sign-in set-up in FinCom, with a QR code to scan in an authenticator app" loading="lazy"></div>
+        <div class="frame narrow rise"><img src="img/two-step.webp" width="620" height="895" alt="The optional two-step sign-in set-up in FinCom, with a QR code to scan in an authenticator app" loading="lazy"></div>
         <div class="groups">
           <div class="group rise"><h3>Access</h3>
             <div class="pt"><svg class="ic" aria-hidden="true" focusable="false" xmlns="http://www.w3.org/2000/svg" viewBox="0 0 256 256" fill="currentColor"><path d="M208,40H48A16,16,0,0,0,32,56v56c0,52.72,25.52,84.67,46.93,102.19,23.06,18.86,46,25.26,47,25.53a8,8,0,0,0,4.2,0c1-.27,23.91-6.67,47-25.53C198.48,196.67,224,164.72,224,112V56A16,16,0,0,0,208,40Zm0,72c0,37.07-13.66,67.16-40.6,89.42A129.3,129.3,0,0,1,128,223.62a128.25,128.25,0,0,1-38.92-21.81C61.82,179.51,48,149.3,48,112l0-56,160,0ZM82.34,141.66a8,8,0,0,1,11.32-11.32L112,148.69l50.34-50.35a8,8,0,0,1,11.32,11.32l-56,56a8,8,0,0,1-11.32,0Z"/></svg><p>Each firm's data is walled off by the database itself. One firm can never read another's.</p></div>
